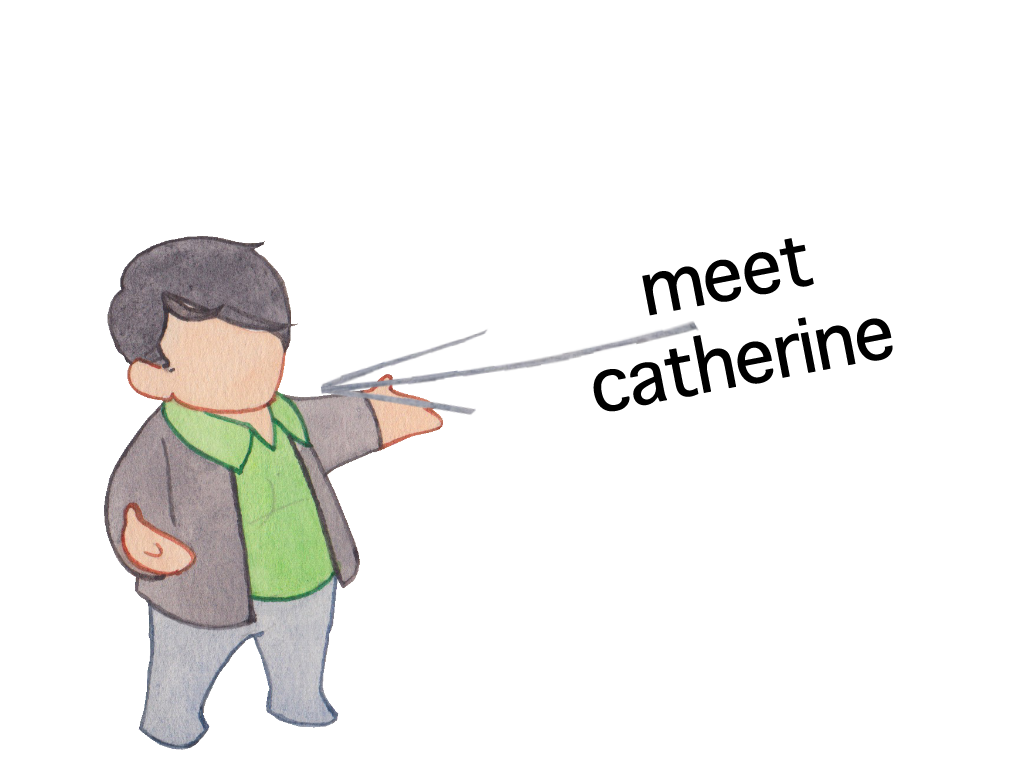
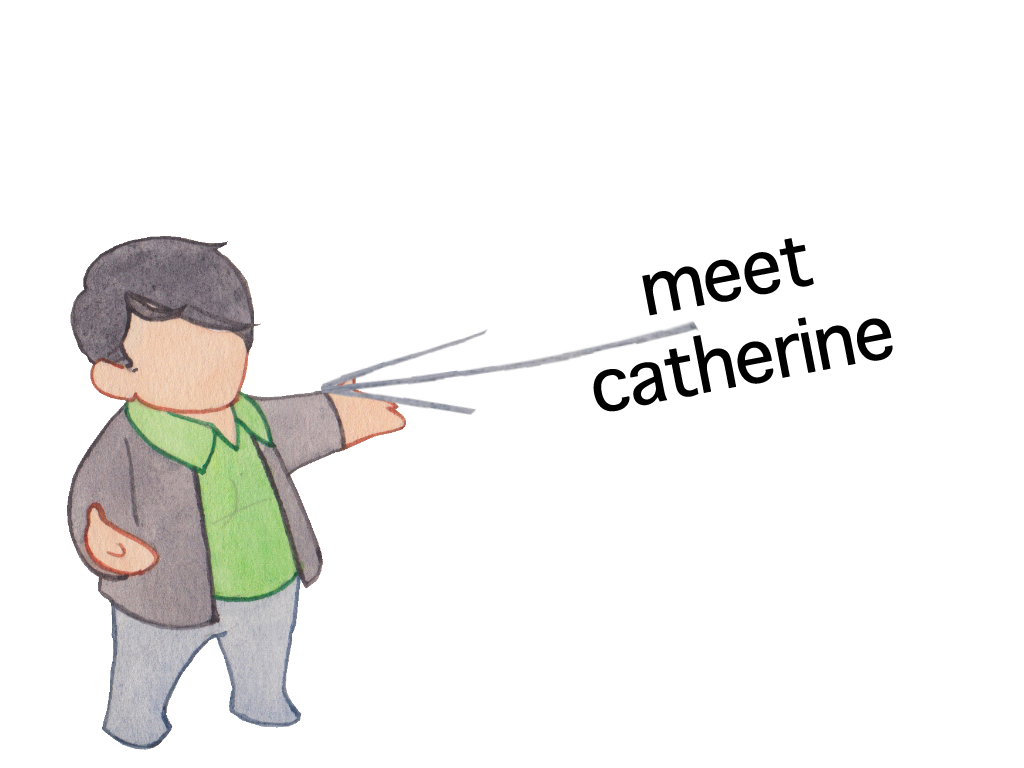
not sure if done, but maybe done

Changed region(s): [[0.0625, 0.2812, 0.4375, 1.0]]

diff --git a/index.html b/index.html
@@ -39,6 +39,7 @@
 			img, pre {
 				border: 0 !important;
 				box-shadow: 0 0 0 #000 !important;
+				margin-top: -50px !important;
 			}
 			h1, h2, h3, h4, h5, p {
 				font-family: Geneva, Tahoma, Verdana, sans-serif !important;
@@ -214,13 +215,13 @@ return {
 					<section><img src="slides/why.wrap.if_we_meet.png" /></section>
 					<section><img src="slides/why.wrap.poof.png" /></section>
 					<section>
-						Now, it doesn't particularly matter where perl stands on the tiobe index... or most any index.
+						Now, it doesn't particularly matter where perl stands<br>on the tiobe index... or most any index.
 					</section>
 					<section>
-						Rather, it matters that it stays alive and people still want to use it.
+						Rather, it matters to me that it stays alive<br>and people still want to use it.
 					</section>
 					<section>
-						And perl is a fabulous tool for rapid problem solving and development.
+						And perl is a fabulous tool for<br>rapid problem solving and development.
 					</section>
 					<section>
 						So...
@@ -230,54 +231,121 @@ return {
 					</section>
 					<section><img src="slides/why.wrap.segway.png" /></section>
 				</section>
-
-				<section>
-					<section>
-						Civic hacking is...
-					</section>
-					<section>
-						identifying an issue...
-					</section>
-					<section>
-						stepping up...
-					</section>
-					<section>
-						crafting a solution...
-					</section>
-					<section>
-						respecting those affected...
-					</section>
-					<section>
-						&mdash; but not waiting, either &mdash;
-					</section>
-					<section>
-						for the socio-economic improvement...
-					</section>
-					<section>
-						of as many as possible.
-					</section>
-					<section>
-						(maybe even yourself included)
-					</section>
-					<section><img src="slides/what.hacking.proverb.png" /></section>
-				</section>
 	
 				<section>
 					<section><img src="slides/what.bracy.meet.png" /></section>
-					<section><img src="slides/what.bracy." /></section>
-					<section><img src="slides/what.bracy." /></section>
-					<section><img src="slides/what.bracy." /></section>
+					<section><img src="slides/what.bracy.busy.png" /></section>
+					<section>She's been kinda busy...</section>
+					<section><img src="slides/what.bracy.why_hackers.png" /></section>
+					<section><img src="slides/what.bracy.more_with_less.png" /></section>
+					<section><img src="slides/what.bracy.stitching.png" /></section>
+					<section><img src="slides/what.bracy.reenergize.png" /></section>
+					<section><img src="slides/what.josh.trust_ourselves.png" /></section>
+					<section><img src="slides/what.hacking.proverb.png" /></section>
+					<section>The needs of the many, et cetera</section>
+					<section>As I was designing a previous version of this talk,<br>this was happening...</section>
+					<section><img style="margin-top: -150px !important;" src="slides/what.bracy.tweets.png" /></section>
+					<section><img src="slides/what.bracy.power_for_good.png" /></section>
+					<section><img src="slides/what.bracy.necessarily.png" /></section>
+					<section><img src="slides/what.bracy.hacking_is.png" /></section>
+					<section><img src="slides/what.bracy.betsy_ross.png" /></section>
+					<section><img src="slides/what.bracy.franklin.png" /></section>
+					<section><img src="slides/what.franklin.hacks.png" /></section>
+					<section><img src="slides/what.bracy.never_filed.png" /></section>
+					<section><img src="slides/what.franklin.pleased.png" /></section>
+					<section><img src="slides/what.franklin.patent.png" /></section>
+					<section><img src="slides/what.franklin.declined.png" /></section>
+					<section><img src="slides/what.franklin.advantages.png" /></section>
+					<section><img src="slides/what.franklin.others.png" /></section>
+					<section><img src="slides/what.franklin.freely.png" /></section>
+				</section>
+				<section>
+					<section>For example...</section>
+					<section>
+						<h2>Problem?</h2>
+						the city of Honolulu, HI had a very unpopular and fairly expensive website resource to help the citizens who rarely used it.	
+					</section>
+					<section>
+						<h2>Solution!</h2>
+						<ul>
+							<li class='fragment'>city asks 3 volunteers to revamp site of 10,000+ pages</li>
+							<li class='fragment'>volunteers decide to make parallel site that better suits people’s expecations (looking for answers to questions.)</li>
+							<li class='fragment'>so they built honolulu answers; much more user friendly</li>
+							<li class='fragment'>team had to figure out how to generate so much content</li>
+							<li class='fragment'>so they crowdsourced the effort</li>
+							<li class='fragment'>in a single saturday afternoon</li>
+							<li class='fragment'>with local citizens, in a massive write-a-thon</li>
+						</ul>
+					</section>
+					<section>
+						Oakland, CA liked this so much they set about doing one, too (and succeeded.)
+					</section>
+					<section>
+						<h2>Problem?</h2>
+						Mexico City was about to spend the equivalent of 9.8 million dollars on a local legislation tracking application.
+					</section>
+					<section>
+						<h2>Solution!</h2>
+						<ul>
+							<li class='fragment'>local geeks, knowing this to be an outrageous contract, issued a challenge…</li>
+							<li class='fragment'>but it has to be completed within 10 days</li>
+							<li class='fragment'>ultimately, they receive 173 submissions</li>
+							<li class='fragment'>5 of which were presented to congress and are still in the app store today</li>
+							<li class='fragment'>this has since sparked a movement</li>
+						</ul>
+					</section>
+					<section>
+						<h2>Problem?</h2>
+						The National Science Foundation was staring down the barrel of congressional budget cuts and the appearance that their research grants were not producing much socio-economic benefit.
+					</section>
+					<section>
+						<h2>Solution!</h2>
+						<ul>
+							<li class='fragment'>Code for NoVA (part of Code for America and hosted at the NSF at the time) took a look</li>
+							<li class='fragment'>compared NSF data of awards granted in 2012 to PTO patents awarded since then</li>
+							<li class='fragment'>manually found that several grants had not been credited with the patents awarded from the research</li>
+							<li class='fragment'>wrote pattern matching routines to find mislabelled patent awards</li>
+							<li class='fragment'>found 800% more assocations between grants and patents than the NSF knew of</li>
+							<li class='fragment'>spurred the PTO to improve their grant report form with patent filings</li>
+							<li class='fragment'>thus improving compliance and making plain how useful NSF grants really are</li>
+						</ul>
+					</section>
+					<section><img src="slides/what.josh.perl_easily.png" /></section>
 				</section>
 	
 				<section>
-					<section><img src="slides/how.example." /></section>
-					<section><img src="slides/how.example." /></section>
-					<section><img src="slides/how.example." /></section>
-					<section><img src="slides/how.example." /></section>
+					<section>What I'm saying is...</section>
+					<section>There are a lot of things<br>out there that need fixing</section>
+					<section>There are lots of people<br><em>right here</em>, who know how to fix things</section>
+					<section>And we all have perl,<br>a powerful language well suited to crafting solutions</section>
 				</section>
 
 				<section>
-					<img src="slides/why.grp_civic.png" />
+					<section>
+						What if the perl community went out and found real problems, solved them with perl, and gave away the results?
+					</section>
+					<section>
+						What if that gift needed just a little support that could be satisfied by some local youth as a summer job?
+					</section>
+					<section>
+						What if that ‘civic’ hack spread like wildfire, and what if you had to start a business just to support it?
+					</section>
+					<section>
+						What if you hired people into this business and what if you invested in training them?
+					</section>
+					<section>
+						<em>I suggest this might lead to a little new blood...</em>
+					</section>
+					<section>
+						What if this new blood started showing up to TPC & DCBPW?	
+					</section>
+					<section>
+						What if this new blood started showed up to DC.PM meetings without having to be threatened with pizza first?
+					</section>
+				</section>
+
+				<section>
+					<img src="slides/use.perl.jpg" />
 				</section>
 
 			</div>
